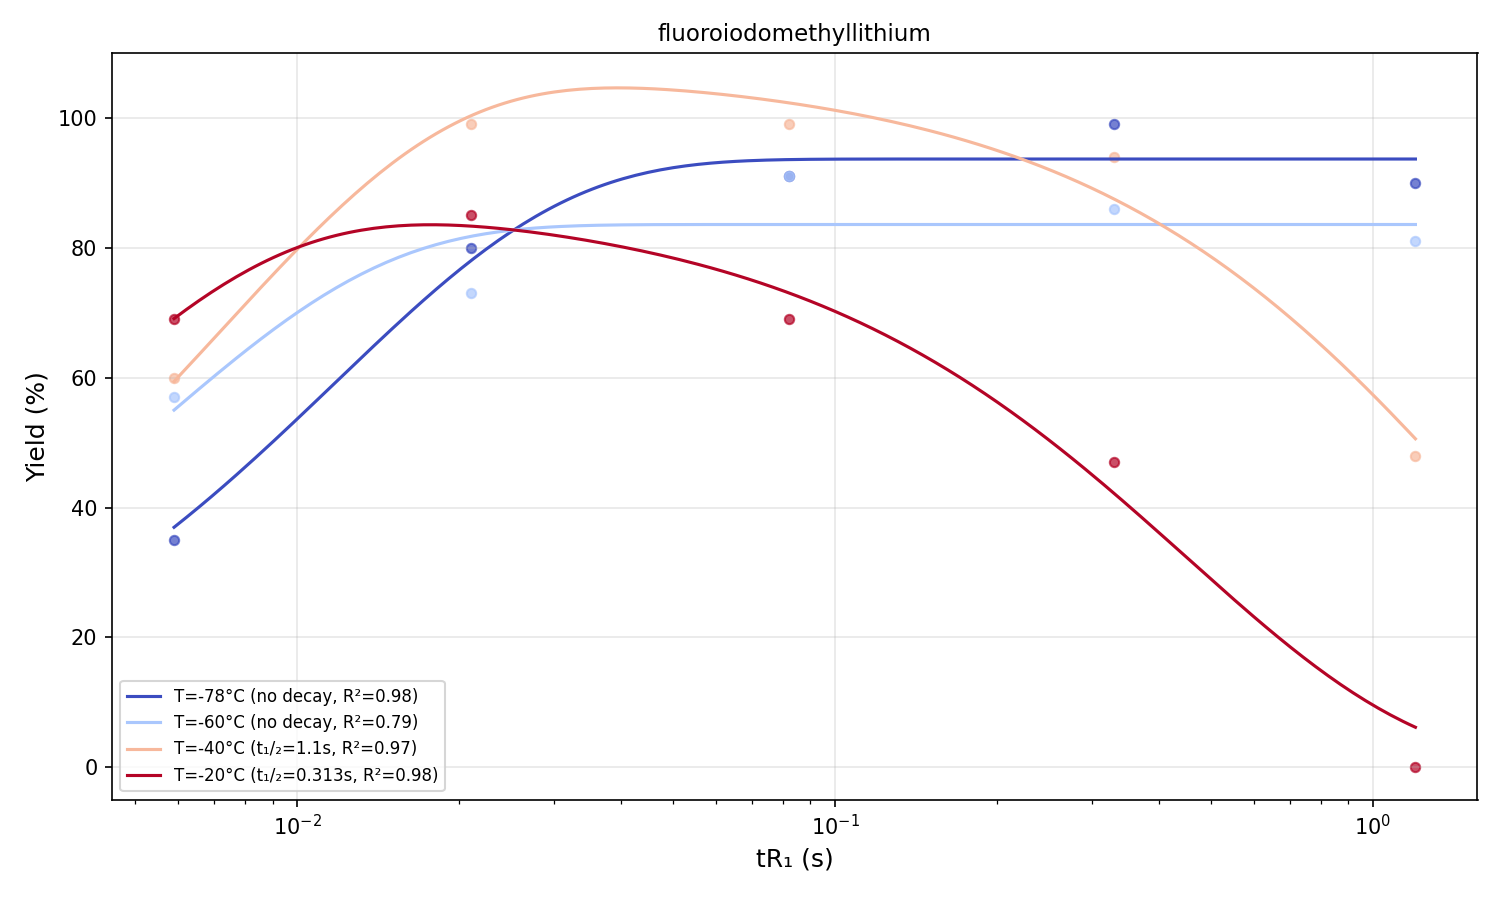
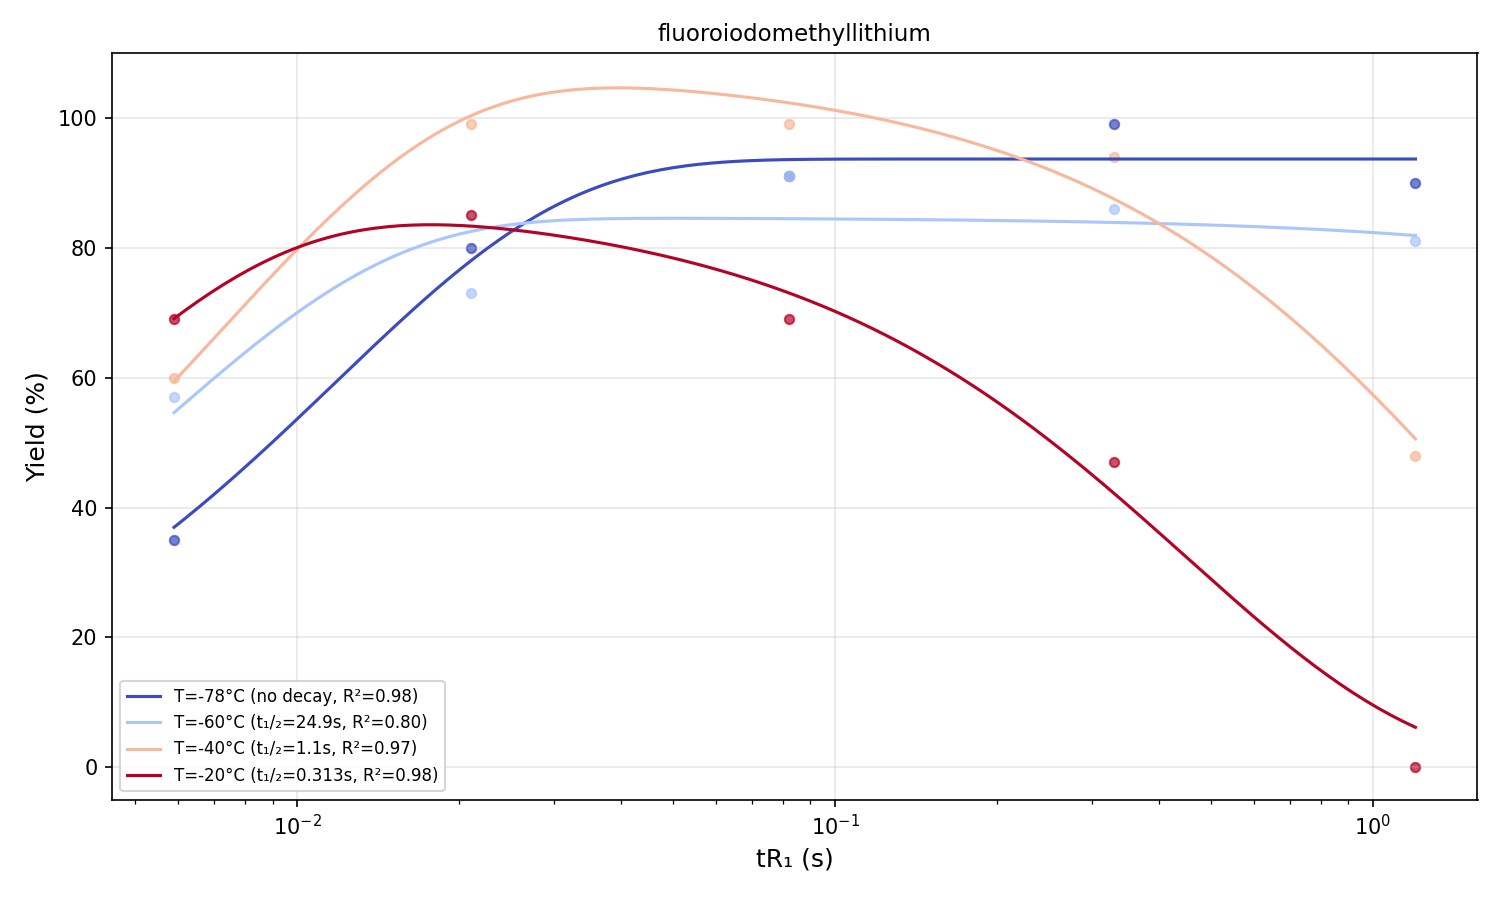
fix: >= threshold + decay-only fallback → 2 compounds upgraded to tier1
Three fixes:
1. MIN_DECAY_DROP threshold: > changed to >= (drop=10% was excluded)
2. Added decay-only exponential fallback for plateau+slow-decay curves
3. Monotonicity filter removes non-physical t½ inversions

Tier upgrades:
- m-nitrophenyllithium: tier2_2pt → tier1 (2→3 temps, Ea=40.1)
- fluoroiodomethyllithium: tier2_2pt → tier1 (2→3 temps, Ea=49.5)
- o-bromophenyllithium: tier2_2pt → tier2_low_r2 (2→3 temps, Ea=39.1)

Final: tier1=26(+2), tier2=8(-2), low_r2=3(+1), legacy=4, total=41

diff --git a/scripts/ml_lifetime/phase_a_extract_halflife.py b/scripts/ml_lifetime/phase_a_extract_halflife.py
@@ -115,6 +115,13 @@ def _formation_only(tR, k_f, y_max):
     return y_max * (1.0 - np.exp(-k_f * tR))
 
 
+def _decay_only(tR, k_d, y0):
+    """Pure exponential decay from plateau.
+    yield = y0 * exp(-k_d * tR)
+    """
+    return y0 * np.exp(-k_d * tR)
+
+
 def fit_curve(tR_arr, y_arr):
     """Fit competing kinetics model. Returns dict of fitted params or None."""
     tR = np.array(tR_arr, dtype=float)
@@ -130,7 +137,7 @@ def fit_curve(tR_arr, y_arr):
     tR_peak = tR[peak_idx]
 
     # Check if decay is visible
-    has_decay = (peak_idx < len(y) - 1) and (y_peak - y[-1] > MIN_DECAY_DROP)
+    has_decay = (peak_idx < len(y) - 1) and (y_peak - y[-1] >= MIN_DECAY_DROP)
 
     if has_decay:
         # Fit competing kinetics
@@ -178,7 +185,47 @@ def fit_curve(tR_arr, y_arr):
         except (RuntimeError, ValueError):
             pass
 
-    # Fallback: formation-only (no measurable decay)
+    # Fallback 1: if decay visible but competing model failed/gave t½>1e6,
+    # try fitting only the decay portion (data from peak onward) with pure
+    # exponential. This handles "plateau + slow decay" cases.
+    if has_decay and peak_idx > 0:
+        tR_decay = tR[peak_idx:]
+        y_decay = y[peak_idx:]
+        if len(tR_decay) >= 3:
+            # Shift tR so decay starts at 0
+            tR_shifted = tR_decay - tR_decay[0]
+            try:
+                with warnings.catch_warnings():
+                    warnings.simplefilter("ignore")
+                    popt_d, _ = curve_fit(
+                        _decay_only, tR_shifted, y_decay,
+                        p0=[0.1, y_peak],
+                        bounds=([1e-10, 1.0], [1e6, 150.0]),
+                        maxfev=10000,
+                    )
+                k_d_pure, y0 = popt_d
+                t_half_pure = np.log(2) / k_d_pure
+                y_pred_d = _decay_only(tR_shifted, *popt_d)
+                ss_res_d = np.sum((y_decay - y_pred_d) ** 2)
+                ss_tot_d = np.sum((y_decay - np.mean(y_decay)) ** 2)
+                r2_d = 1.0 - ss_res_d / ss_tot_d if ss_tot_d > 0 else 0.0
+
+                if t_half_pure < 1e6 and r2_d > 0.3:
+                    return {
+                        "model": "competing",
+                        "k_f": 1e6,  # formation assumed fast
+                        "k_d": k_d_pure,
+                        "t_half": t_half_pure,
+                        "t_peak": tR_peak,
+                        "y_max": y0,
+                        "r2": r2_d,
+                        "tR_data": tR,
+                        "y_data": y,
+                    }
+            except (RuntimeError, ValueError):
+                pass
+
+    # Fallback 2: formation-only (no measurable decay)
     try:
         with warnings.catch_warnings():
             warnings.simplefilter("ignore")
